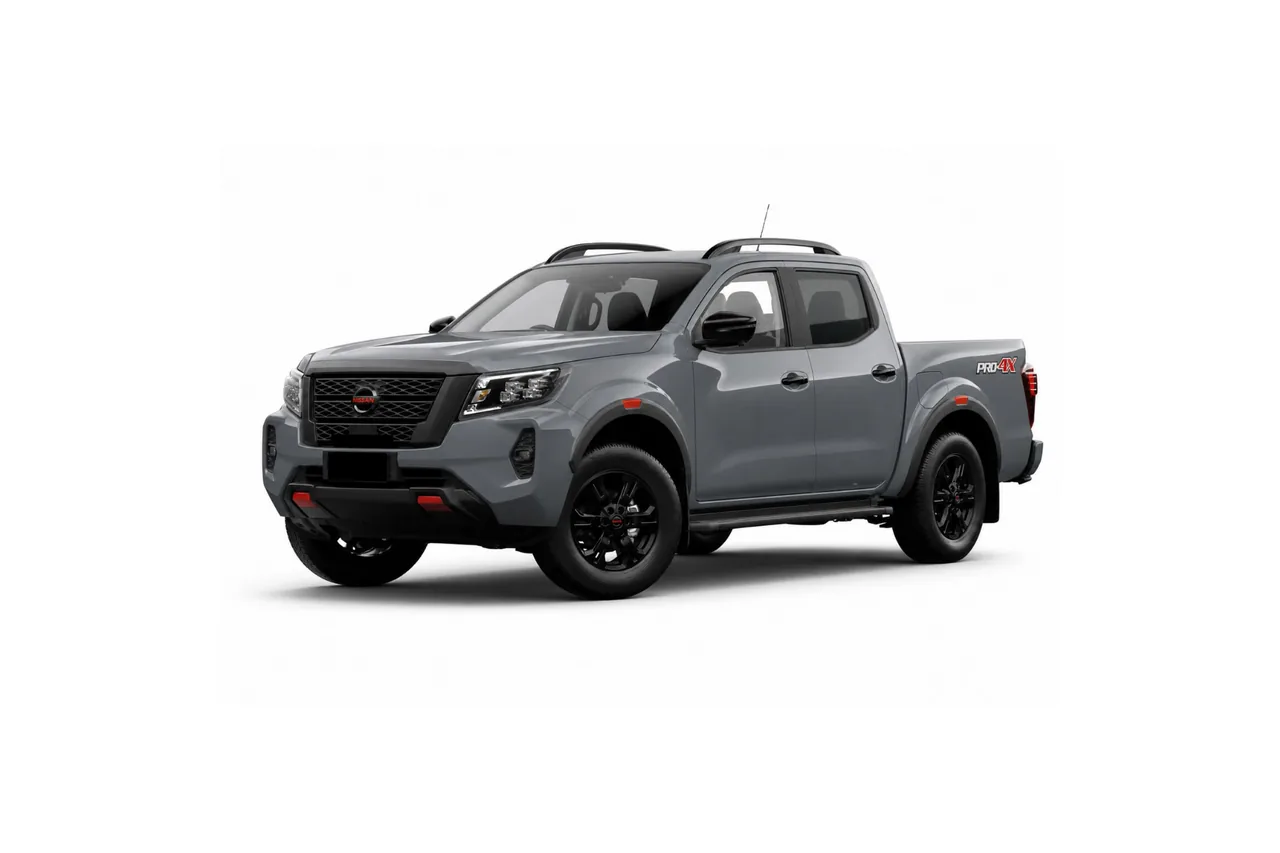
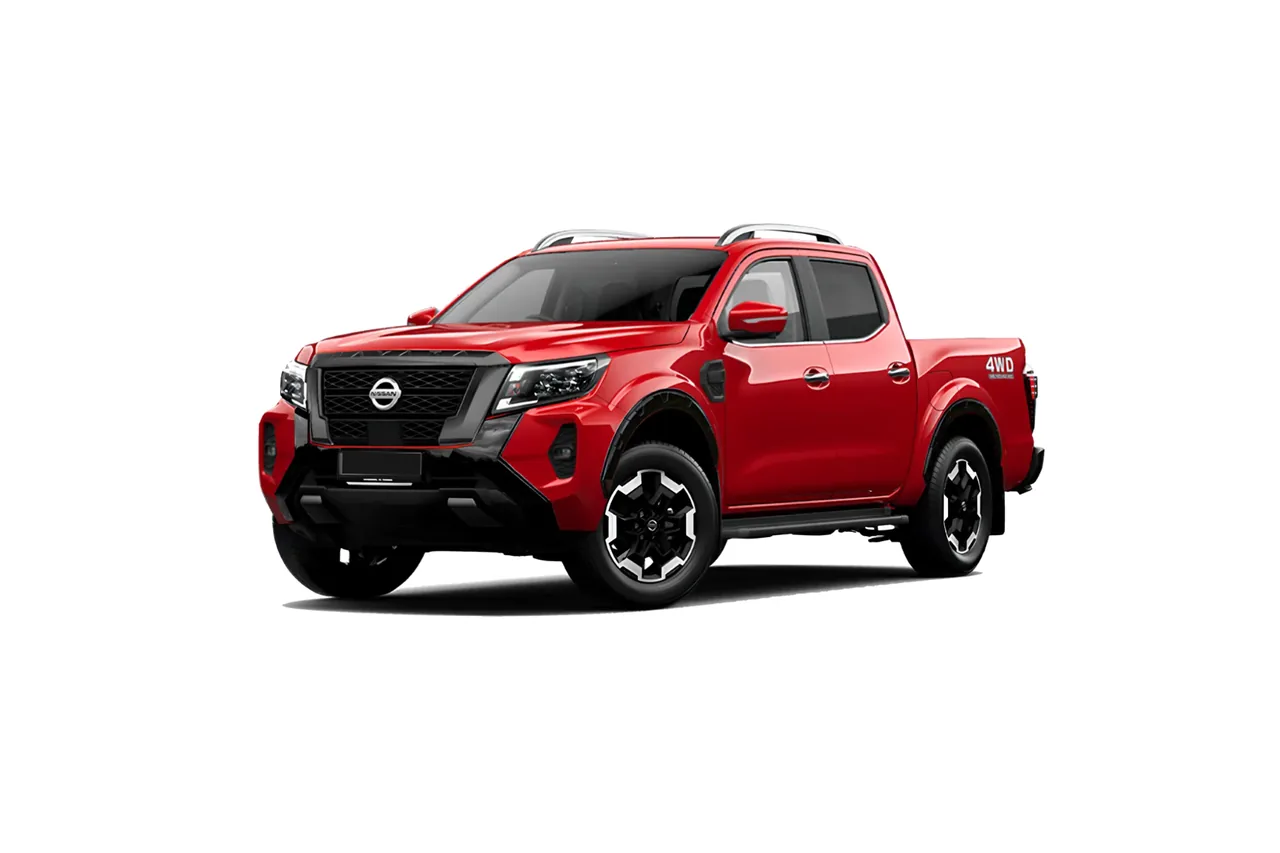
Replace carousel slide 16 with red Nissan Navara

Changed region(s): [[0.1875, 0.2438, 0.8438, 0.7315]]

diff --git a/src/CarCarousel.jsx b/src/CarCarousel.jsx
@@ -1,5 +1,5 @@
 import React,{useEffect,useRef,useState} from 'react';
-const names=['Perodua Bezza','Proton e.MAS 5','Proton S70','Honda City','Toyota Vios','Mitsubishi Xforce','BYD Atto 3','Jaecoo J7','Jetour T2','XPeng G6','Omoda C9','Zeekr 7X','Volkswagen Tayron','BMW 3 Series','Volvo XC60','Nissan Navara PRO-4X','Denza D9','Red Mazda crossover'];
+const names=['Perodua Bezza','Proton e.MAS 5','Proton S70','Honda City','Toyota Vios','Mitsubishi Xforce','BYD Atto 3','Jaecoo J7','Jetour T2','XPeng G6','Omoda C9','Zeekr 7X','Volkswagen Tayron','BMW 3 Series','Volvo XC60','Red Nissan Navara','Denza D9','Red Mazda crossover'];
 const nextCar=index=>(index+1)%names.length;
 
 function randomStart(){
@@ -37,7 +37,8 @@ export default function CarCarousel(){
  return <div ref={panel} className="photo-panel car-carousel" role="region" aria-label="Car gallery">
  {nearby&&[previous,active,upcoming].filter(index=>index!==null).map(index=>{
   const path='/assets/cars/car_images_'+(index+1);
-  return <img key={index} src={path+'.webp'} srcSet={path+'-768.webp 768w, '+path+'-1280.webp 1280w, '+path+'.webp 1920w'} sizes="(max-width: 800px) 130vw, 100vw" width="1920" height="1280" alt={active===index?names[index]:''} aria-hidden={active!==index} className={active===index?'is-active':''} fetchPriority={active===index?'auto':'low'} onLoad={()=>markLoaded(index)}/>;
+  const version=index===15?'?v=2':'';
+  return <img key={index} src={path+'.webp'+version} srcSet={path+'-768.webp'+version+' 768w, '+path+'-1280.webp'+version+' 1280w, '+path+'.webp'+version+' 1920w'} sizes="(max-width: 800px) 130vw, 100vw" width="1920" height="1280" alt={active===index?names[index]:''} aria-hidden={active!==index} className={active===index?'is-active':''} fetchPriority={active===index?'auto':'low'} onLoad={()=>markLoaded(index)}/>;
  })}
  <div className="photo-caption"><span>A CAR THAT FITS YOUR LIFESTYLE</span><p>Go your <em>own way.</em></p></div>
  </div>
